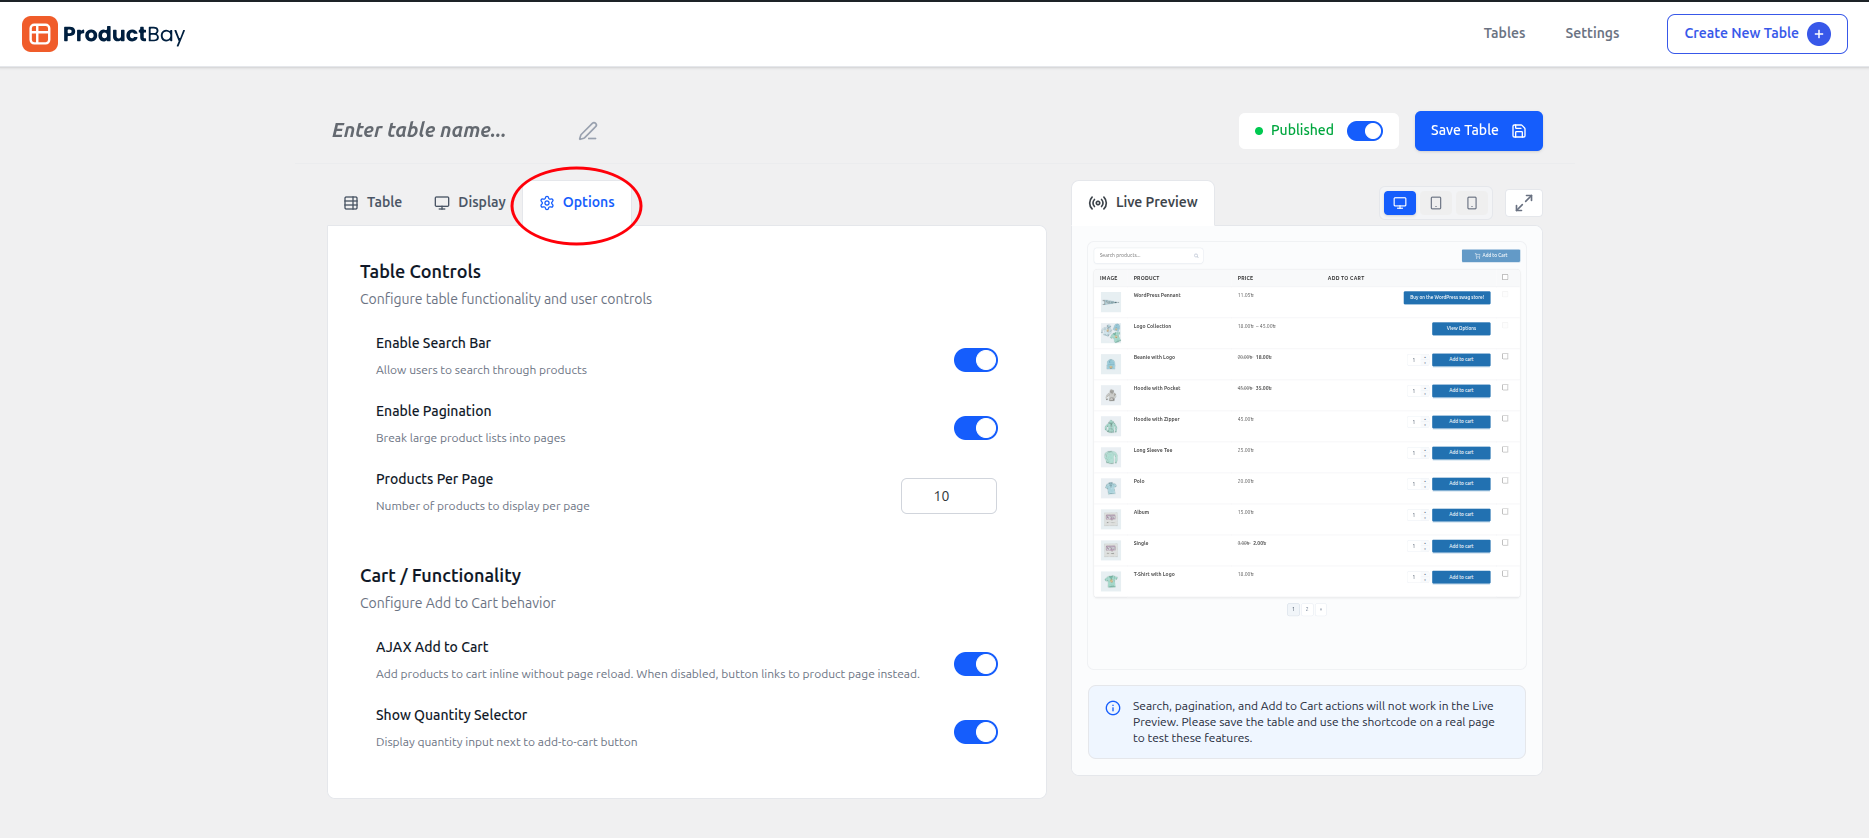
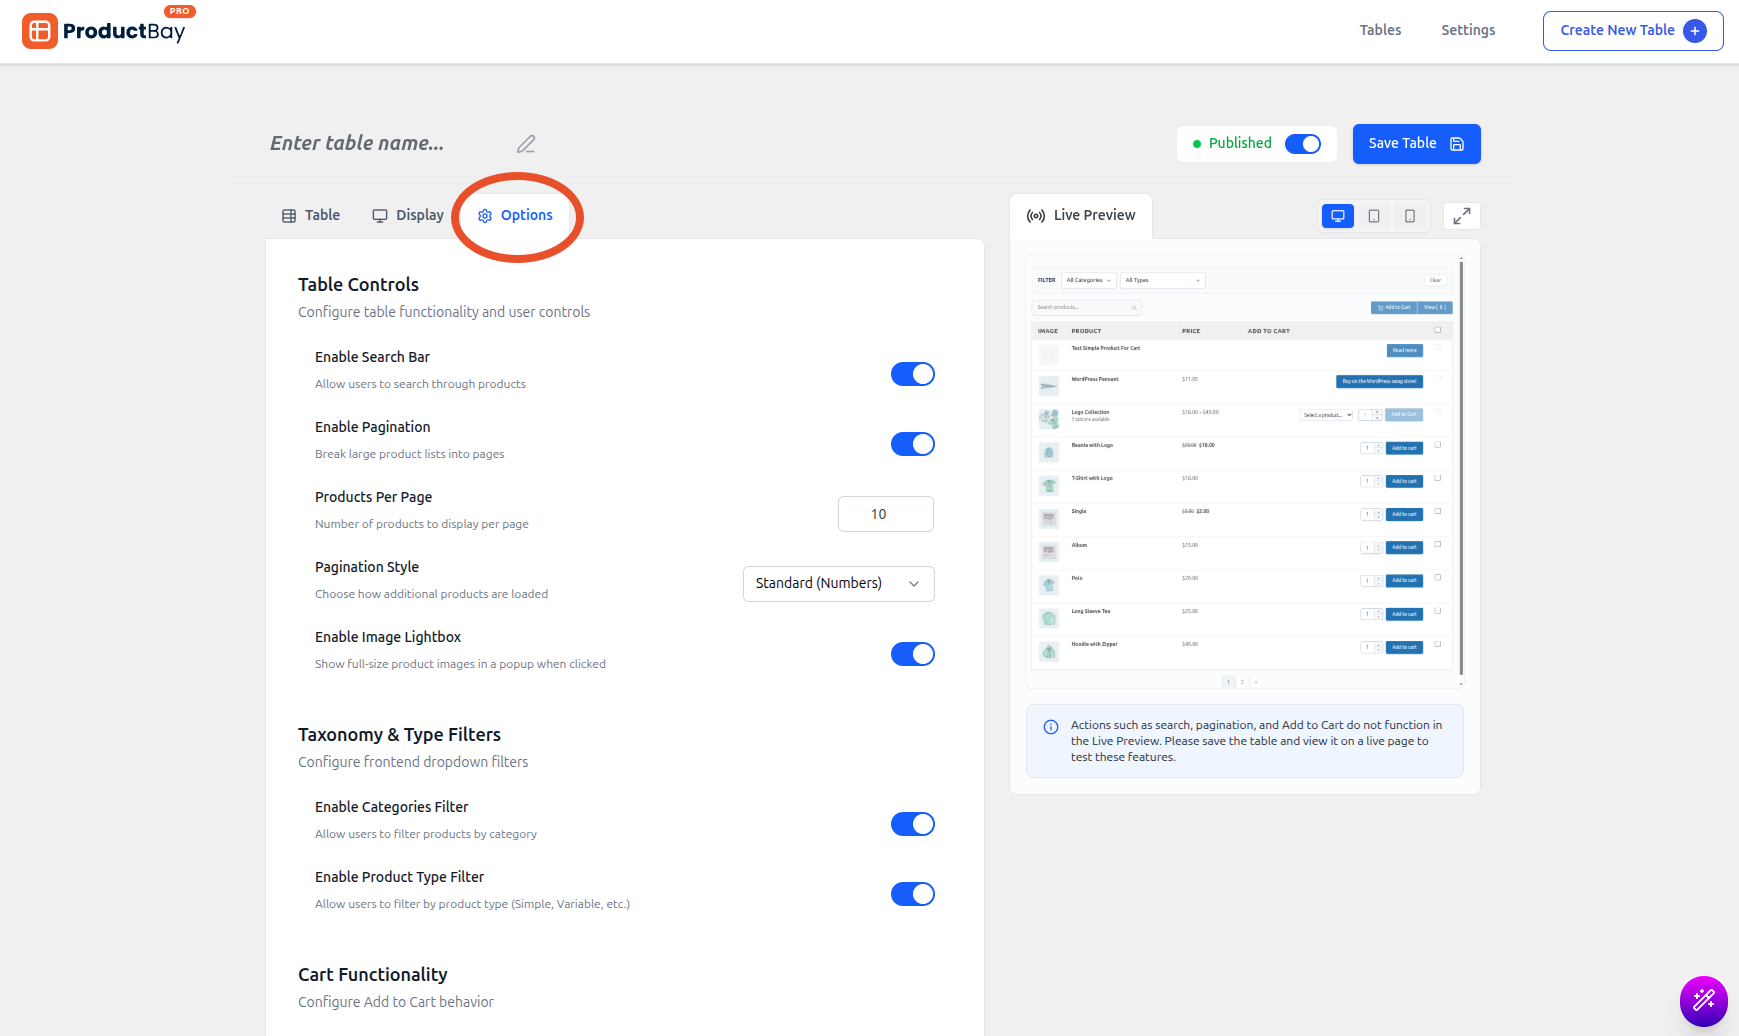
docs: update feature documentation and refresh screenshots

diff --git a/docs/features/product-sources.md b/docs/features/product-sources.md
@@ -4,20 +4,14 @@ Product sources determine **which products** appear in your table. ProductBay of
 
 ## Source Types
 
+![Product Sources](/images/product-sources.png)
+
 ### All Products
 
 Displays all published products from your WooCommerce store.
 
 - **Best for:** General product catalogs, store-wide listings
 - **Products included:** All products with "Published" status
-
-### By Category
-
-Select one or more WooCommerce product categories to populate your table.
-
-- **Best for:** Category-specific pages, seasonal collections
-- **Search:** Type to search and select categories from a dropdown
-- **Multiple categories:** You can select multiple categories — products from all selected categories will be included
 
 ### On Sale
 
@@ -29,6 +23,24 @@ Automatically includes only products currently on sale. This uses WooCommerce's 
 - **Best for:** Sale pages, promotional landing pages
 - **Dynamic:** Products automatically appear/disappear as sales start and end
 
+### By Category
+
+Select one or more WooCommerce product categories to populate your table.
+
+- **Best for:** Category-specific pages, seasonal collections
+- **Search:** Type to search and select categories from a dropdown
+- **Multiple categories:** You can select multiple categories — products from all selected categories will be included.
+
+![Product Sources - By Category](/images/product-sources-by-category.png)
+
+1. Select "By Category" as the product source.
+2. You will selected categories here and you can also remove any category by clicking on the cross icon.
+3. You can also search for categories by typing in the search bar. 
+4. You reload categories by clicking on the reload icon if needed.
+5. You can clear all categories by clicking on the clear icon if needed.
+
+Select one or more categories to include in the table and the table will display all the products from the selected categories.
+
 ### Specific Products
 
 Hand-pick individual products by searching for them.
@@ -39,36 +51,12 @@ Hand-pick individual products by searching for them.
 
 - **Best for:** Curated lists, featured products, comparison tables
 
-## Query Modifiers
+![Product Sources - Specific Products](/images/product-sources-specific-products.png)
 
-Regardless of source type, you can further refine which products appear:
+1. Select "Specific Products" as the product source.
+2. You will see a search bar to search for products, you can search for products by typing in the search bar. 
+3. You will see a dropdown of products that match your search query. You can select one or more products from the dropdown. By default, some products will be visible in the dropdown.
+4. You will see selected products here and be able to remove them by clicking on the cross icon. On hover of the product, you will see the product name, id and sku.
+5. You can clear all products by clicking on the clear icon if needed.
 
-### Exclude Product IDs
-Enter one or more product IDs to **exclude** from the table. Useful for hiding discontinued items or products you don't want in a particular table.
-
-### Stock Status Filter
-
-| Option | Description |
-|--------|-------------|
-| **Any** | Show products regardless of stock status |
-| **In Stock** | Only products that are in stock |
-| **Out of Stock** | Only products that are out of stock |
-| **On Backorder** | Only products accepting backorders |
-
-### Price Range
-Set minimum and/or maximum price bounds to limit displayed products. Leave a field empty for no limit.
-
-## Sort Order
-
-Configure the default sorting for your table:
-
-| Sort By | Options |
-|---------|---------|
-| **Name** | A → Z or Z → A |
-| **Price** | Low → High or High → Low |
-| **Date** | Newest First or Oldest First |
-| **Popularity** | Best Selling First |
-
-::: tip
-This sets the **initial** sort order when the table first loads on the frontend.
-:::
+Select one or more products to include in the table and the table will display all the products from the selected products.

diff --git a/docs/features/custom-field-column.md b/docs/features/custom-field-column.md
@@ -2,12 +2,20 @@
 
 The Custom Field column is one of the most powerful features in ProductBay Pro. It allows you to expose virtually any piece of data associated with your products — including core WooCommerce meta, custom fields added by themes, or data from third-party plugins like Advanced Custom Fields (ACF).
 
+![Custom Field Column](/images/custom-field-column.png)
+
+1. Click on chevron icon to expand the custom field column settings.
+2. You can browse and search all available meta keys here.
+3. You can select any avaiable keys just by click on it.
+4. You can select the formatting mode.
+5. **Meta Key** (Manual Override), this is the actual field that fetchs data in the custome field. You put your meta key here.
+6. You can add **suffix** which will be added at the end of the content in each row for that custom field.
+7. You can add **prefix** which will be added at the beginning of the content in each row for that custom field.
+8. Like any other column, you can drag to change order, hide column name in the table header, or remove the custom field column.
+
 ## Adding the Column
 
-To add a Custom Field to your table:
-1. Navigate to Step 2 (**Columns**) in the creation wizard.
-2. Click **Add Column**.
-3. Select **Custom Field** from the list of available columns.
+While creating or editing a table, click on **Manage Columns** button and select **Custom Field** option.
 
 ## Meta-Key Discovery Panel
 

diff --git a/docs/features/create-page.md b/docs/features/create-page.md
@@ -73,14 +73,13 @@ The **Options Tab** provides advanced controls for table functionality, filters,
 1. **Table Controls**: Configure how users interact with the table.
    - **Enable Search Bar**: Allow users to filter products via a search input.
    - **Enable Pagination**: Break long lists into multiple pages.
-   - **Enable Image Lightbox**: Open full-size product images in a popup on click.
-2. **Pagination Settings**: Fine-tune pagination behavior.
    - **Products Per Page**: Define how many products show before pagination kicks in.
    - **Pagination Style**: Choose Standard (numbers), Load More button <ProBadge />, or Infinite Scroll <ProBadge />.
-3. **Taxonomy & Type Filters**: Frontend filter dropdowns.
+   - **Enable Image Lightbox**: Open full-size product images in a popup on click.
+2. **Taxonomy & Type Filters**: Frontend filter dropdowns.
    - **Enable Categories Filter**: Show a category dropdown filter above the table.
    - **Enable Product Type Filter**: Show a product type dropdown (Simple, Variable, etc.).
-4. **Cart Functionality**: Enhance the shopping experience.
+3. **Cart Functionality**: Enhance the shopping experience.
    - **Enable Add to Cart**: Show add-to-cart buttons.
    - **AJAX Add to Cart**: Add to cart without page reload.
    - **Show Quantity Selector**: Allow quantity input per row.

diff --git a/docs/features/column-editor.md b/docs/features/column-editor.md
@@ -2,7 +2,24 @@
 
 The Column Editor lets you choose which data columns appear in your product table, arrange their order, and control responsive visibility.
 
-![Column Editor](/images/columns.webp)
+![Column Editor](/images/column-editor.png)
+
+1. Clicking on **Manage Columns** button will open the column editor.
+2. Select or deselect columns to include in the table.
+3. Selected Columns will appear in the table in the order they are arranged.
+
+![Column Editor](/images/column-editor-2.png)
+
+1. Open column settings by clicking on the chevron expand button on the right side of any column card.
+2. You can edit a column name by clicking on the column name text field.
+3. You can open column editor by clicking on the **Manage Columns** button.
+4. You can reorder columns by dragging and dropping them in the column list on the left side of the column editor.
+5. Set the column width by clicking on the width dropdown on the right side of any column card.
+6. Set the column visibility by clicking on the visibility dropdown on the right side of any column card.
+7. You can also hide or show a column name on the table header by clicking on the eye icon on the right side of any column card.
+8. You can remove a column by clicking on the trash icon.
+
+
 
 ## Available Columns
 
